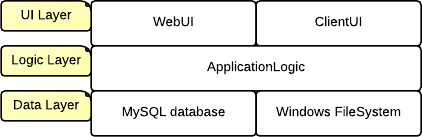
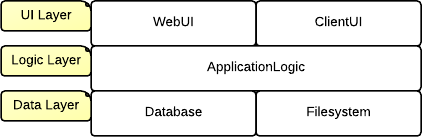
Logical View no longer mentions any specific technology

Changed region(s): [[0.6469, 0.7591, 0.955, 0.8759], [0.2773, 0.7591, 0.5545, 0.8759]]

diff --git a/report/Software_architecture/logical.tex b/report/Software_architecture/logical.tex
@@ -2,7 +2,7 @@
 \label{sec:logicalview}
 
 The architecture is based around a reusable application logic layer, that connects to the
-local file system and a MySQL database as needed. Additionally, it can easily be used by
+local file system and a database as needed. Additionally, it can easily be used by
 both the Web-Only UI and the Local UI.
 
 \begin{figure}[htb]
@@ -18,7 +18,7 @@ parallel UI layers and two parallel data layers (see Figure \ref{fig:application
 From these layers our package diagram almost directly follows (Figure \ref{fig:package-diagram}):
 To communicate with the different data layers, we have two separate models. It is important to
 note that the \emph{LocalFileModel} connects to both the file system (in most situations) and
-to the MySQL database (when this is explicitly requested).
+to the database (when this is explicitly requested).
 
 In using the Model-View-Controller pattern to separate to visuals (WebUI, ClientUI) from the
 data behind (LocalFileModel, WebFileModel) by communicating through the Controller, we achieve
